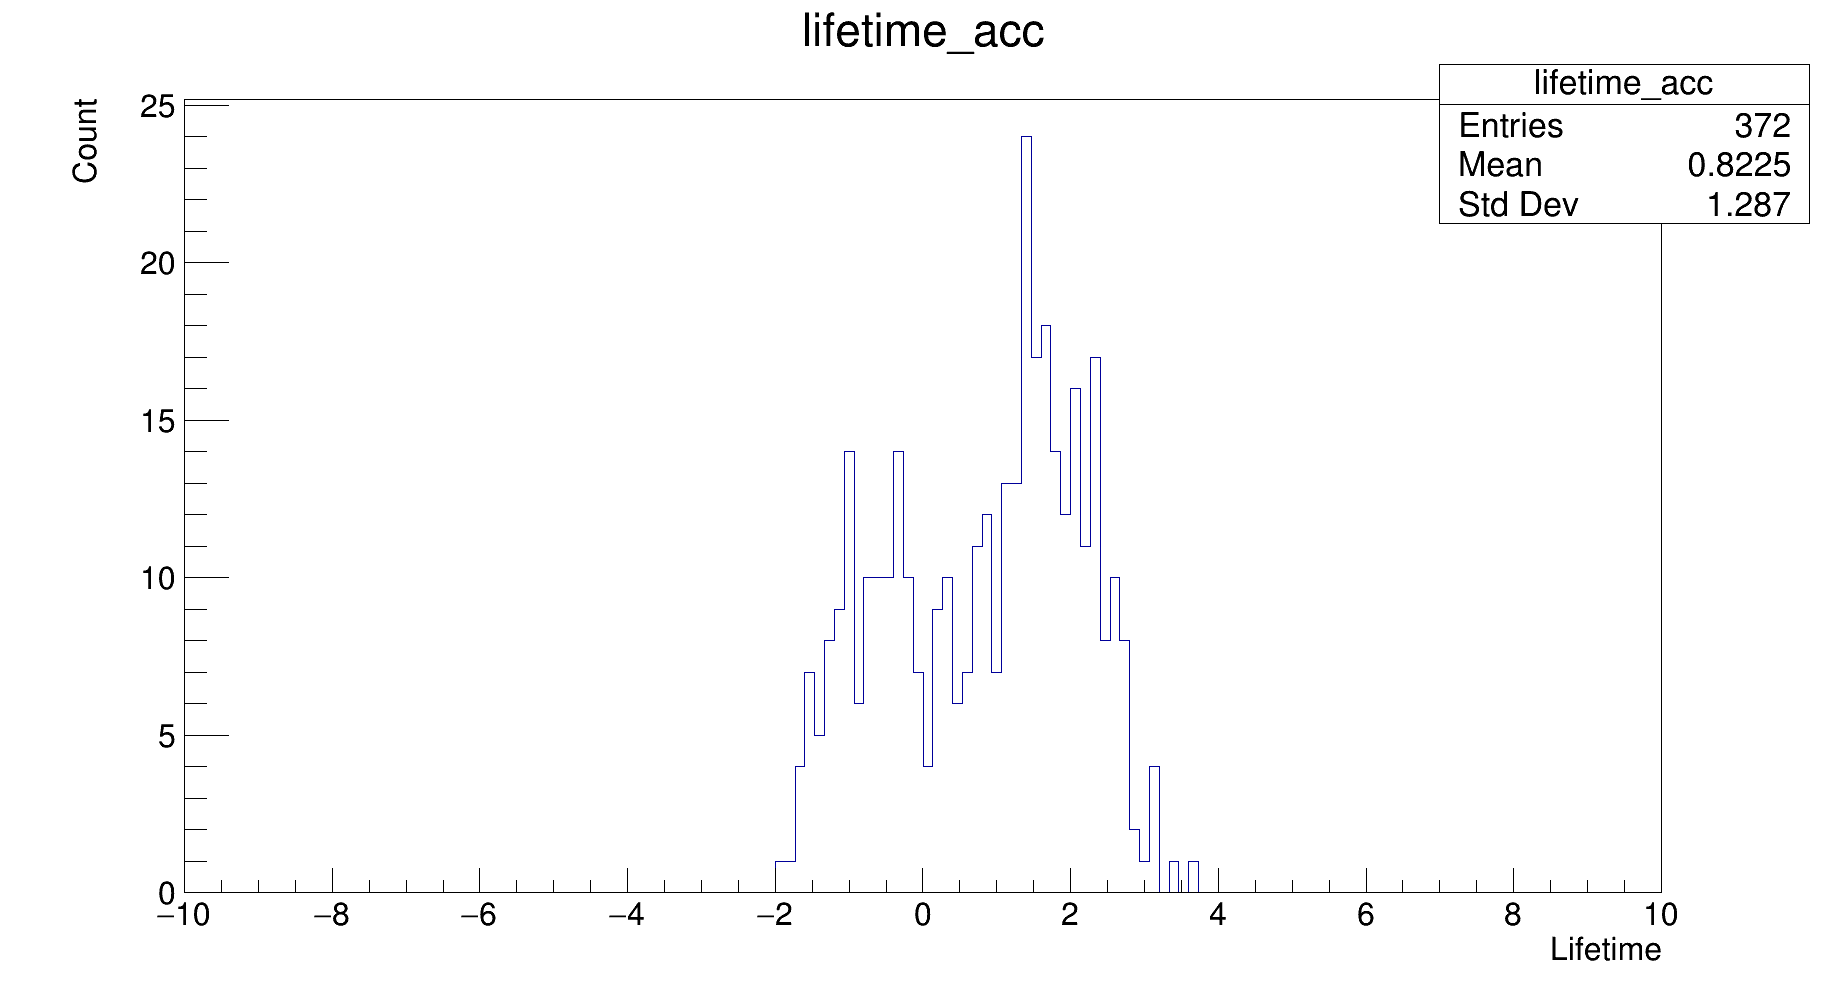
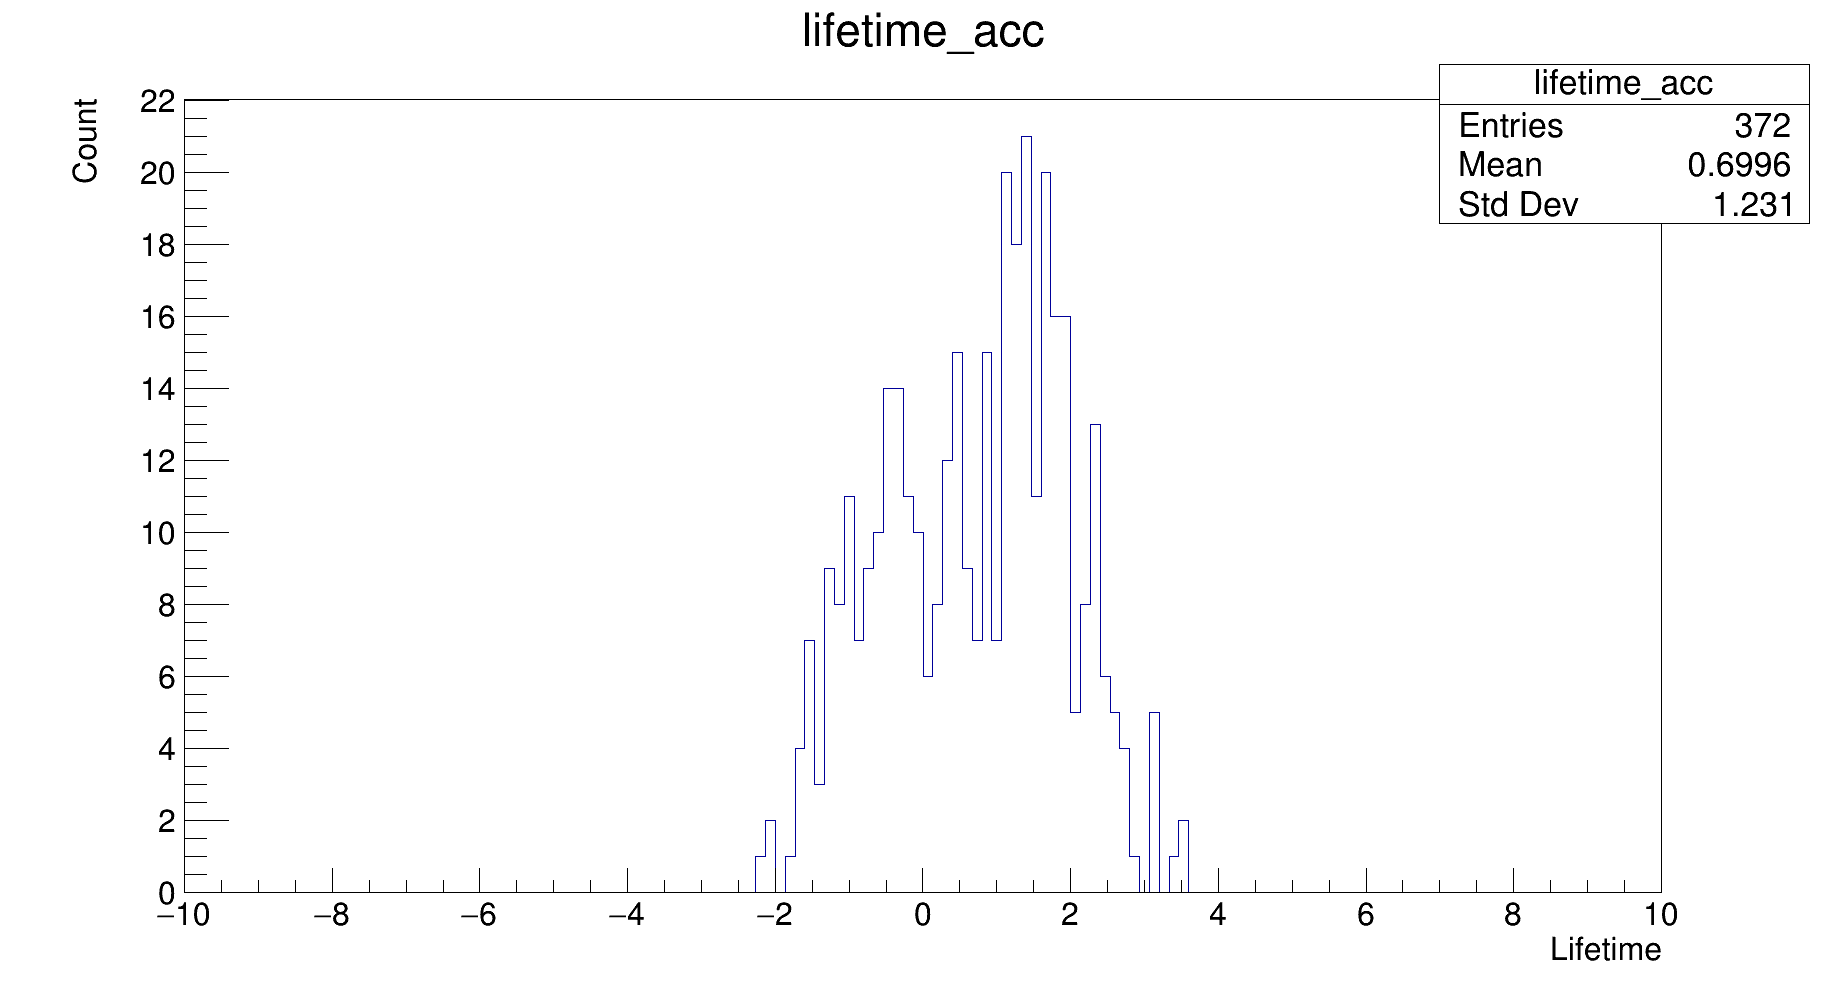
Added code handling selection of prompt gamma to 'calc_lifetime.h'. Noticed an issue where in some cases, there is no hit with energy above 511 keV - most likely those cases are responsible for the negative lifetime

diff --git a/DTW_algorithm/calc_lifetime.h b/DTW_algorithm/calc_lifetime.h
@@ -12,40 +12,56 @@
 
 vector<float> calc_lifetime(ROOT::RDF::RInterface<ROOT::Detail::RDF::RJittedFilter, void> df){
 	float timeRescale = 1/1000;	//rescale time unit to seconds
-	float posRescale = 1;	//rescale position to centimeters
 	float c = 30;		//speed of light [cm/ns]
 	auto time_Vec = *(df.Take<vector<float>>("time"));
 	auto x_Vec = *(df.Take<vector<float>>("x"));
 	auto y_Vec = *(df.Take<vector<float>>("y"));
 	auto z_Vec = *(df.Take<vector<float>>("z"));
+	auto energy = *(df.Take<vector<float>>("energy"));
 	vector<float> lifetimes;	//vector for calculated lifetimes
 	
 	float tFl1, tFl2, tEm1, tEm2, refTime, lenAB, origin[3] = {0.0, 0.0, 0.0};
 	vector<float> vecAB, pDist, d1, d2;
+	int iMap[3] = {0, 1, 2};
+
 	
 	for (int i = 0; i < time_Vec.size(); i++){
+		//set index mapping based on prompt index
+		if(energy[i][0] > 511.0){
+			iMap[0] = 0; iMap[1] = 1; iMap[2] = 2;
+		}
+		if(energy[i][1] > 511.0){
+			iMap[0] = 1; iMap[1] = 0; iMap[2] = 2;
+		}
+		if(energy[i][2] > 511.0){
+			iMap[0] = 2; iMap[1] = 0; iMap[2] = 1;
+		}
+		
+		std::cout << energy[i][iMap[0]] << "  " << energy[i][iMap[1]] << "  " << energy[i][iMap[2]] << std::endl;
+	
 		//determine decay origin
-		vecAB = { (x_Vec[i][1] - x_Vec[i][2])*posRescale, (y_Vec[i][1] - y_Vec[i][2])*posRescale, (z_Vec[i][1] - z_Vec[i][2])*posRescale };
+		vecAB = { (x_Vec[i][iMap[1]] - x_Vec[i][iMap[2]]), (y_Vec[i][iMap[1]] - y_Vec[i][iMap[2]]), (z_Vec[i][iMap[1]] - z_Vec[i][iMap[2]]) };
 		lenAB = TMath::Sqrt( vecAB[0]*vecAB[0] + vecAB[1]*vecAB[1] + vecAB[2]*vecAB[2]);
 		
-		origin[0] = x_Vec[i][1]*posRescale + (0.5 + c*timeRescale*(time_Vec[i][1]-time_Vec[i][2]) / (2*lenAB) ) * vecAB[0];
-		origin[1] = y_Vec[i][1]*posRescale + (0.5 + c*timeRescale*(time_Vec[i][1]-time_Vec[i][2]) / (2*lenAB) ) * vecAB[1];
-		origin[2] = z_Vec[i][1]*posRescale + (0.5 + c*timeRescale*(time_Vec[i][1]-time_Vec[i][2]) / (2*lenAB) ) * vecAB[2];
+		origin[0] = x_Vec[i][iMap[1]] + (0.5 + c*timeRescale*(time_Vec[i][iMap[1]]-time_Vec[i][iMap[2]]) / (2*lenAB) ) * vecAB[0];
+		origin[1] = y_Vec[i][iMap[1]] + (0.5 + c*timeRescale*(time_Vec[i][iMap[1]]-time_Vec[i][iMap[2]]) / (2*lenAB) ) * vecAB[1];
+		origin[2] = z_Vec[i][iMap[1]] + (0.5 + c*timeRescale*(time_Vec[i][iMap[1]]-time_Vec[i][iMap[2]]) / (2*lenAB) ) * vecAB[2];
+		//std::cout << origin[0] << "	" << origin[1] << "	" << origin[2] << std::endl;
 	
 		//calculate "machine time" T
-		pDist = { x_Vec[i][0]*posRescale - origin[0], y_Vec[i][0]*posRescale - origin[1], z_Vec[i][0]*posRescale - origin[2] };
-		refTime = timeRescale*time_Vec[i][0] - TMath::Sqrt( pDist[0]*pDist[0] + pDist[1]*pDist[1] + pDist[2]*pDist[2]) / c;
+		pDist = { x_Vec[i][iMap[0]] - origin[0], y_Vec[i][iMap[0]] - origin[1], z_Vec[i][iMap[0]] - origin[2] };
+		refTime = timeRescale*time_Vec[i][iMap[0]] - TMath::Sqrt( pDist[0]*pDist[0] + pDist[1]*pDist[1] + pDist[2]*pDist[2]) / c;
 		
 		//calculate lifetime
-		pDist = { x_Vec[i][1]*posRescale - origin[0], y_Vec[i][1]*posRescale - origin[1], z_Vec[i][1]*posRescale - origin[2] };
+		pDist = { x_Vec[i][iMap[1]] - origin[0], y_Vec[i][iMap[1]] - origin[1], z_Vec[i][iMap[1]] - origin[2] };
 		tFl1 = TMath::Sqrt( pDist[0]*pDist[0] + pDist[1]*pDist[1] + pDist[2]*pDist[2]) / c;
-		tEm1 = timeRescale*time_Vec[i][1] - tFl1 - refTime;
+		tEm1 = timeRescale*time_Vec[i][iMap[1]] - tFl1 - refTime;
 		
-		pDist = { x_Vec[i][2]*posRescale - origin[0], y_Vec[i][2]*posRescale - origin[1], z_Vec[i][2]*posRescale - origin[2] };
+		pDist = { x_Vec[i][iMap[2]] - origin[0], y_Vec[i][iMap[2]] - origin[1], z_Vec[i][iMap[2]] - origin[2] };
 		tFl2 = TMath::Sqrt( pDist[0]*pDist[0] + pDist[1]*pDist[1] + pDist[2]*pDist[2]) / c;
-		tEm2 = timeRescale*time_Vec[i][2] - tFl2 - refTime;
+		tEm2 = timeRescale*time_Vec[i][iMap[2]] - tFl2 - refTime;
 		
-		lifetimes.push_back( (tEm1 + tEm2)/2 - timeRescale*time_Vec[i][0]);
+		lifetimes.push_back( (tEm1 + tEm2)/2 - timeRescale*time_Vec[i][iMap[0]]);
 	}
 	
 	return lifetimes;

diff --git a/DTW_algorithm/DTW.cpp b/DTW_algorithm/DTW.cpp
@@ -109,44 +109,3 @@ void DTW(){
 	delete gROOT->FindObject("lifetime_acc");
 }
 
-/*
-vector<float> calc_lifetime(ROOT::RDF::RInterface<ROOT::Detail::RDF::RJittedFilter, void> df){
-	int timeRescale = 1;	//rescale time unit to seconds
-	int c = TMath::C();		//speed of light [m/s]
-	auto time_Vec = *(df.Take<vector<float>>("time"));
-	auto x_Vec = *(df.Take<vector<float>>("x"));
-	auto y_Vec = *(df.Take<vector<float>>("y"));
-	auto z_Vec = *(df.Take<vector<float>>("z"));
-	vector<float> lifetimes;	//vector for calculated lifetimes
-	
-	float tFl1, tFl2, tEm1, tEm2, refTime, lenAB, origin[3] = {0.0, 0.0, 0.0};
-	vector<float> vecAB, pDist, d1, d2;
-	
-	for (int i = 0; i < time_Vec.size(); i++){
-		//determine decay origin
-		vecAB = { x_Vec[i][1] - x_Vec[i][2], y_Vec[i][1] - y_Vec[i][2], z_Vec[i][1] - z_Vec[i][2] };
-		lenAB = TMath::Sqrt( vecAB[0]*vecAB[0] + vecAB[1]*vecAB[1] + vecAB[2]*vecAB[2]);
-		
-		origin[0] = x_Vec[i][1] + (0.5 + c*timeRescale*(time_Vec[i][1]-time_Vec[i][2]) / (2*lenAB) ) * vecAB[0];
-		origin[1] = y_Vec[i][1] + (0.5 + c*timeRescale*(time_Vec[i][1]-time_Vec[i][2]) / (2*lenAB) ) * vecAB[1];
-		origin[2] = z_Vec[i][1] + (0.5 + c*timeRescale*(time_Vec[i][1]-time_Vec[i][2]) / (2*lenAB) ) * vecAB[2];
-	
-		//calculate "machine time" T
-		pDist = { x_Vec[i][0] - origin[0], y_Vec[i][0] - origin[1], z_Vec[i][0] - origin[2] };
-		refTime = timeRescale*time_Vec[i][0] - TMath::Sqrt( pDist[0]*pDist[0] + pDist[1]*pDist[1] + pDist[2]*pDist[2]) / c;
-		
-		//calculate lifetime
-		pDist = { x_Vec[i][1] - origin[0], y_Vec[i][1] - origin[1], z_Vec[i][1] - origin[2] };
-		tFl1 = TMath::Sqrt( pDist[0]*pDist[0] + pDist[1]*pDist[1] + pDist[2]*pDist[2]) / c;
-		tEm1 = timeRescale*time_Vec[i][1] - tFl1 - refTime;
-		
-		pDist = { x_Vec[i][2] - origin[0], y_Vec[i][2] - origin[1], z_Vec[i][2] - origin[2] };
-		tFl2 = TMath::Sqrt( pDist[0]*pDist[0] + pDist[1]*pDist[1] + pDist[2]*pDist[2]) / c;
-		tEm2 = timeRescale*time_Vec[i][2] - tFl2 - refTime;
-		
-		lifetimes.push_back( (tEm1 + tEm2)/2 - timeRescale*time_Vec[i][0]);
-	}
-	
-	return lifetimes;
-}*/
-
